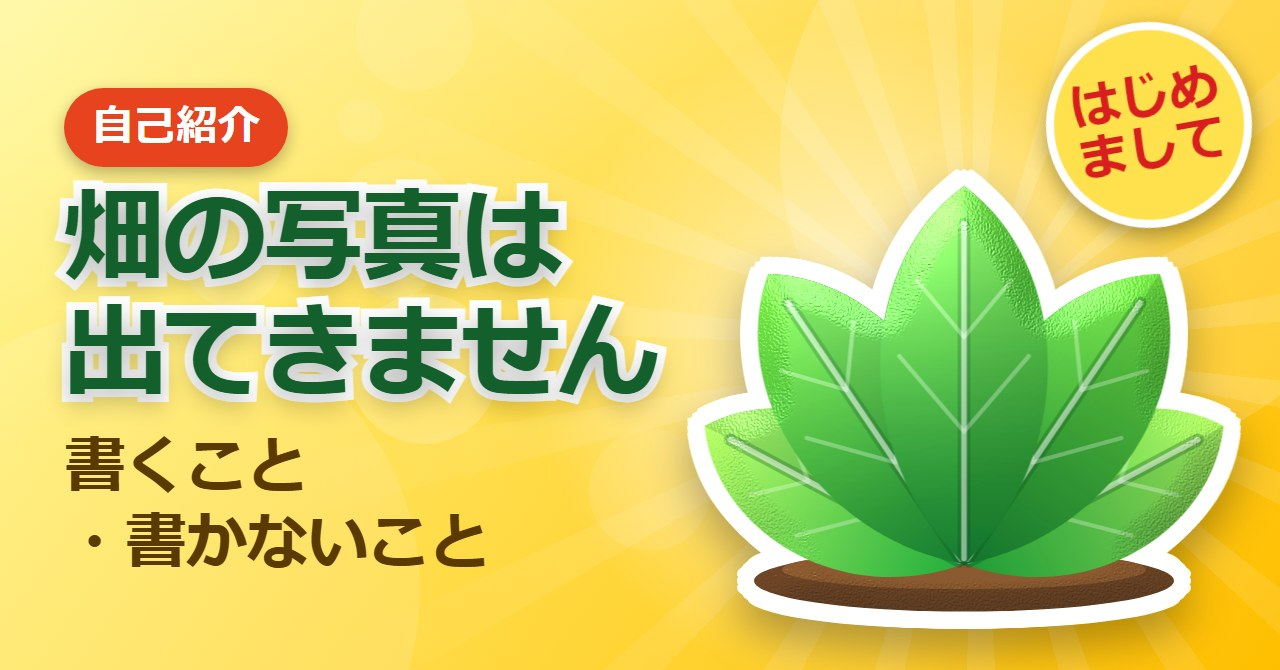
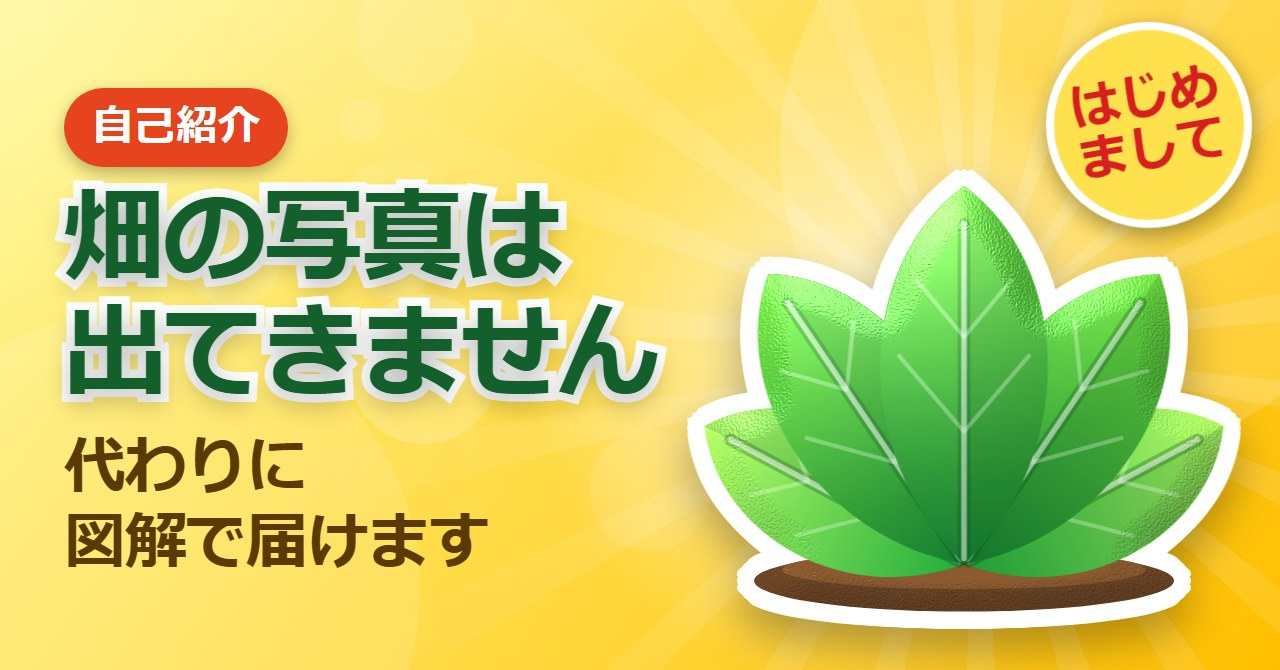
jiko update

Changed region(s): [[0.0312, 0.6567, 0.375, 0.8657]]

diff --git a/tmp/jikoshokai_body.html b/tmp/jikoshokai_body.html
@@ -1,0 +1,2 @@
+<p name="591f7d4b-550b-4913-a27d-a2ba98ba1954" id="591f7d4b-550b-4913-a27d-a2ba98ba1954">はじめまして。このnoteを書いている者です。</p><p name="a2697216-029c-4672-a8a2-d697718c517a" id="a2697216-029c-4672-a8a2-d697718c517a"><br></p><p name="49ea1618-78d9-42da-bb35-e3392d12440f" id="49ea1618-78d9-42da-bb35-e3392d12440f">野菜づくりのnoteですが、畑の写真は一枚も出てきません。育てている様子も、収穫した量も載せていません。写真の代わりに、図解で届けるためです。</p><p name="224d5c3e-0c33-4b2a-93bc-337789177dd0" id="224d5c3e-0c33-4b2a-93bc-337789177dd0"><br></p><p name="5cf37cb5-264f-4b7c-aff5-bc9db250c6a1" id="5cf37cb5-264f-4b7c-aff5-bc9db250c6a1">この記事で分かること</p><p name="1e3e19f5-6256-4de6-9e71-224ebff3104f" id="1e3e19f5-6256-4de6-9e71-224ebff3104f"><br></p><ul name="fe339b6e-17af-4ffc-9f3c-9c3d229d7094" id="fe339b6e-17af-4ffc-9f3c-9c3d229d7094"><li><p name="6284e1e9-643c-4c68-978f-b4d4ff546379" id="6284e1e9-643c-4c68-978f-b4d4ff546379">なぜ写真ではなく、図解なのか</p></li><li><p name="26a3865f-c1ff-47d9-907e-481a0a5f0268" id="26a3865f-c1ff-47d9-907e-481a0a5f0268">何を根拠に書いているのか</p></li><li><p name="ec7f8559-0ee2-4151-831f-8df1e4753296" id="ec7f8559-0ee2-4151-831f-8df1e4753296">このnoteが書くことと、書かないこと</p></li><li><p name="c23f1a12-c3f0-48bd-8068-f452031bce52" id="c23f1a12-c3f0-48bd-8068-f452031bce52">いちばん困っていることを教えてほしい、というお願い</p></li></ul><p name="6c39a5c6-df87-4b45-970b-615a19d97d08" id="6c39a5c6-df87-4b45-970b-615a19d97d08"><br></p><h2 name="b7e9bef2-0077-4ccd-8fe1-bf4c1d780777" id="b7e9bef2-0077-4ccd-8fe1-bf4c1d780777">写真ではなく、図解で届ける理由</h2><p name="f8965d4b-f64f-4862-94eb-d72e1bb9aa79" id="f8965d4b-f64f-4862-94eb-d72e1bb9aa79"><br></p><p name="05eb00c7-96fa-4775-aed1-cf8a3850e164" id="05eb00c7-96fa-4775-aed1-cf8a3850e164">家庭菜園はしています。実家は、果樹の専業農家です。それでも、畑の写真を載せるnoteにはしません。</p><p name="673f8630-bf1e-472a-96c1-761ab3465bd4" id="673f8630-bf1e-472a-96c1-761ab3465bd4"><br></p><p name="dbfa1095-ae41-4e61-9296-edd5ad8b8f6e" id="dbfa1095-ae41-4e61-9296-edd5ad8b8f6e">家庭菜園のnoteの多くは、育てた記録です。写真があって、季節が進んで、うまくいったりいかなかったりする。読んでいて楽しいですし、同じ時期に同じものを育てている人には、そのまま役に立ちます。</p><p name="54567ce8-fd78-4ea1-b43a-98f7315129f6" id="54567ce8-fd78-4ea1-b43a-98f7315129f6"><br></p><p name="f5bb6823-6fdc-4f35-b355-56c4626f60b4" id="f5bb6823-6fdc-4f35-b355-56c4626f60b4">このnoteは、そこには入りません。写真は、その畑、その年だけの記録です。同じ野菜でも、場所や土や天気が違えば、同じ結果にはなりません。だから私は、写真ではなく「なぜそうなるのか」を図にして届けることを、自分の強みにしています。</p><p name="805d831e-fb9e-46cc-b0b0-fb395bcad6d7" id="805d831e-fb9e-46cc-b0b0-fb395bcad6d7"><br></p><h2 name="7764a552-4b5a-4241-90d3-3ddc8cfdbbd8" id="7764a552-4b5a-4241-90d3-3ddc8cfdbbd8">では、何を根拠に書いているのか</h2><p name="390e4fb1-00f6-487c-9a7b-9da532320e8a" id="390e4fb1-00f6-487c-9a7b-9da532320e8a"><br></p><p name="4c885b5d-1027-459f-aa10-1768c9d9bbfe" id="4c885b5d-1027-459f-aa10-1768c9d9bbfe">農業の仕事に関わっていて、指導の資格があります。実家は果樹の専業農家で、家庭菜園もしています。</p><p name="2d690479-232a-4e6f-84f3-04996e116074" id="2d690479-232a-4e6f-84f3-04996e116074"><br></p><p name="50da7f27-12b0-4288-86ad-851ec4bf0506" id="50da7f27-12b0-4288-86ad-851ec4bf0506">ただ、それを理由に「だから正しい」と言うつもりはありません。資格は、間違えない保証にはならないからです。</p><p name="b69e2c7c-4268-478f-b24b-22cee9d22f08" id="b69e2c7c-4268-478f-b24b-22cee9d22f08"><br></p><p name="bf838702-7a63-423a-9d63-94218a6aa56e" id="bf838702-7a63-423a-9d63-94218a6aa56e">このnoteで根拠にしているのは、植物の性質のほうです。根は先端のどこで伸びるのか。水が足りないとき、何が先に止まるのか。肥料をやってから効くまでに、土の中で何が起きているのか。品種や地域が変わっても動きにくい部分だけを書いています。</p><p name="55b9ffbc-e04d-4b08-8844-4aa387ccfc3a" id="55b9ffbc-e04d-4b08-8844-4aa387ccfc3a"><br></p><p name="abd09ac9-5845-422d-96f7-21280df18e6f" id="abd09ac9-5845-422d-96f7-21280df18e6f">だから読んだあとに残ってほしいのは、手順ではなく理由です。理由が分かっていれば、目の前の株で何が起きているかを、自分で判断できるようになります。</p><p name="003f6c7e-8330-4e52-ba92-3b30cfddfa74" id="003f6c7e-8330-4e52-ba92-3b30cfddfa74"><br></p><h2 name="6209e7b9-c90c-49e1-8249-28f8d119c21b" id="6209e7b9-c90c-49e1-8249-28f8d119c21b">書くこと</h2><p name="6684b2ac-22d5-47e2-9c05-c71d294dd694" id="6684b2ac-22d5-47e2-9c05-c71d294dd694"><br></p><h3 name="25b18f27-9f31-4c6c-830c-464abe10a1a1" id="25b18f27-9f31-4c6c-830c-464abe10a1a1">症状から入る</h3><p name="1767aaac-51af-42c1-adfc-904f5e1b6118" id="1767aaac-51af-42c1-adfc-904f5e1b6118"><br></p><p name="c28c86d5-9a7d-457e-be6a-0ef3dc23c056" id="c28c86d5-9a7d-457e-be6a-0ef3dc23c056">「葉に穴が空いた」「実がつかない」「苗が伸びない」。病名ではなく、目で見えている状態から書きはじめます。困っているとき、先に頭に浮かぶのは見た目のほうだからです。</p><p name="2872362f-f0d9-458f-ab79-4a2ba0fb3ac2" id="2872362f-f0d9-458f-ab79-4a2ba0fb3ac2"><br></p><h3 name="917e28a7-dec3-4bc6-b6bc-06c135896319" id="917e28a7-dec3-4bc6-b6bc-06c135896319">しないとどうなるかを書く</h3><p name="d5430054-ebd9-4dcb-b2b2-079ee22ca858" id="d5430054-ebd9-4dcb-b2b2-079ee22ca858"><br></p><p name="9e147c3c-d9a1-4baa-a462-1ccabfc861fa" id="9e147c3c-d9a1-4baa-a462-1ccabfc861fa">「やったほうがいい」だけでは、後回しになります。やらなかったときに何が起きるのかまで書いてはじめて、やるかやらないかを決められます。</p><p name="13e332b6-db2e-4187-8e05-94851a98c33d" id="13e332b6-db2e-4187-8e05-94851a98c33d"><br></p><h2 name="b63d645c-826a-46a8-95e7-c7c6d97f4952" id="b63d645c-826a-46a8-95e7-c7c6d97f4952">書かないこと</h2><p name="13e52bd3-aebe-4e66-8bb8-7ebffde5ab2e" id="13e52bd3-aebe-4e66-8bb8-7ebffde5ab2e"><br></p><h3 name="130a49b1-75b7-4cda-9c1a-92919f2bdf38" id="130a49b1-75b7-4cda-9c1a-92919f2bdf38">自分の栽培体験</h3><p name="9aed1c7c-d789-4346-8f10-3f527b034371" id="9aed1c7c-d789-4346-8f10-3f527b034371"><br></p><p name="52b48113-05cf-41f8-be43-deac1e79893e" id="52b48113-05cf-41f8-be43-deac1e79893e">上に書いたとおりです。家庭菜園はしていますが、栽培記録は書きません。場所や品種や年で結果が変わる話は、読んだ人の畑にそのまま当てはまらないからです。</p><p name="39105a1a-ee4b-46c7-ad03-897b4309e496" id="39105a1a-ee4b-46c7-ad03-897b4309e496"><br></p><h3 name="b577ee9d-bcc5-408e-8e1e-fc61e666a650" id="b577ee9d-bcc5-408e-8e1e-fc61e666a650">言い切れないこと</h3><p name="00677330-243d-44eb-adbc-83360f1a8a07" id="00677330-243d-44eb-adbc-83360f1a8a07"><br></p><p name="8dc11850-13c0-4db0-871e-0afa1a0c9582" id="8dc11850-13c0-4db0-871e-0afa1a0c9582">はっきりしないことは「〜のことが多いです」で止めます。断定したほうが読みやすいのは分かっていますが、読んだ人は実際に畑やプランターで手を動かします。外したときの損は、こちらではなく読んだ側に出ます。歯切れの悪い文が混ざっていたら、そこは確信が持てていない部分だと思ってください。</p><p name="f50ffc09-31bd-4388-93fa-97399c84a18e" id="f50ffc09-31bd-4388-93fa-97399c84a18e"><br></p><h3 name="11e7c76b-0885-4a4c-968a-a044cfd0b5d9" id="11e7c76b-0885-4a4c-968a-a044cfd0b5d9">効果の保証</h3><p name="747ddeb0-4673-4b59-bf91-f70007bc86db" id="747ddeb0-4673-4b59-bf91-f70007bc86db"><br></p><p name="cfa5574a-7989-46d7-abf0-2b7170f173a1" id="cfa5574a-7989-46d7-abf0-2b7170f173a1">「必ず甘くなる」「絶対に失敗しない」は書きません。野菜は同じ手をかけても、年によって違う結果になります。</p><p name="bfdbd766-d3fa-48a8-b690-fa82e6e8a082" id="bfdbd766-d3fa-48a8-b690-fa82e6e8a082"><br></p><figure name="0908fdbc-d6eb-465b-8e57-820a43e4731d" id="0908fdbc-d6eb-465b-8e57-820a43e4731d"><blockquote><p name="c46fac2b-0b0e-4585-b60a-44eba0092036" id="c46fac2b-0b0e-4585-b60a-44eba0092036">⚠ 一方で、はっきりしていることは、はっきり書きます。全部をぼかすのは、それはそれで不誠実だと考えています。</p></blockquote><figcaption></figcaption></figure><p name="de84138d-38b6-4860-9d5e-d32eb1cc798a" id="de84138d-38b6-4860-9d5e-d32eb1cc798a"><br></p><h2 name="3ba79038-3633-43cc-973f-13b22f005a2a" id="3ba79038-3633-43cc-973f-13b22f005a2a">向いていない人</h2><p name="ee108877-63b0-407c-803d-ea7e8d506d52" id="ee108877-63b0-407c-803d-ea7e8d506d52"><br></p><p name="9c600dec-6fa3-4866-8776-c72b83d596d2" id="9c600dec-6fa3-4866-8776-c72b83d596d2">・写真で季節を感じたい人 … 図解はありますが、畑の写真はありません</p><p name="9d64520a-3334-4729-b96e-8c2c78932225" id="9d64520a-3334-4729-b96e-8c2c78932225">・すぐ使える手順だけを知りたい人 … 理由の説明が長いので、遠回りに感じると思います</p><p name="ddeb4e1f-2c3a-4db5-85e7-e0292c2d5ebb" id="ddeb4e1f-2c3a-4db5-85e7-e0292c2d5ebb"><br></p><h2 name="4a23d62a-a592-49a6-b503-e58313ba100a" id="4a23d62a-a592-49a6-b503-e58313ba100a">いま、いちばん困っていることを教えてください</h2><p name="2f0ecbdc-e055-4e18-8cca-5e3a061c81cc" id="2f0ecbdc-e055-4e18-8cca-5e3a061c81cc"><br></p><p name="1e0bf377-913f-4583-aadc-0664fba9792f" id="1e0bf377-913f-4583-aadc-0664fba9792f">このnoteは、読んだ人が困っていることから書きたいと思っています。</p><p name="ba5496d9-09b2-4206-8f61-70dcaf6b7e5c" id="ba5496d9-09b2-4206-8f61-70dcaf6b7e5c"><br></p><p name="f055fdc9-5d7c-408a-bf03-450540bf3095" id="f055fdc9-5d7c-408a-bf03-450540bf3095">あなたがいま、いちばん手を止めているのはどれでしょう。</p><p name="6ecfe732-ab67-4238-81a6-bf392e3cb342" id="6ecfe732-ab67-4238-81a6-bf392e3cb342"><br></p><p name="65acea6a-48e8-4e45-bfa1-c53c81c7bab4" id="65acea6a-48e8-4e45-bfa1-c53c81c7bab4">・1 虫や病気</p><p name="3896c5fb-c859-423d-98cb-1bd446614ed0" id="3896c5fb-c859-423d-98cb-1bd446614ed0">・2 実がつかない、太らない</p><p name="67937f5d-245d-4d4b-96c3-67f70248f4d0" id="67937f5d-245d-4d4b-96c3-67f70248f4d0">・3 土づくりと肥料</p><p name="80b0895d-0350-4ccd-99af-6b79261cabab" id="80b0895d-0350-4ccd-99af-6b79261cabab">・4 水やり</p><p name="0213e127-efc3-4d03-9529-f5f12d74113e" id="0213e127-efc3-4d03-9529-f5f12d74113e">・5 種まきと苗の植え付け</p><p name="78ca7d3d-ce10-480c-b343-73c22ad1936c" id="78ca7d3d-ce10-480c-b343-73c22ad1936c"><br></p><p name="a058d5fa-a53a-404a-b3a1-910877f49a8c" id="a058d5fa-a53a-404a-b3a1-910877f49a8c">番号だけでもかまいません。コメントで教えてもらえると助かります。</p><p name="3b06e1a8-4142-4737-a5e4-9a2ad2906d6c" id="3b06e1a8-4142-4737-a5e4-9a2ad2906d6c"><br></p><p name="4d2f8389-e048-4107-bc01-32b6459c9cc7" id="4d2f8389-e048-4107-bc01-32b6459c9cc7">いただいた番号の多いものから順に書いていきます。</p><p name="bd329a14-aca8-4b44-9aeb-224235c2eeeb" id="bd329a14-aca8-4b44-9aeb-224235c2eeeb"><br></p><p name="fbc47bb0-0488-470c-8174-f3d5f2335808" id="fbc47bb0-0488-470c-8174-f3d5f2335808">いまのところ、いちばん読まれているのはこの記事です。</p><p name="802ab689-4531-47ce-8e2e-2ce4544710f2" id="802ab689-4531-47ce-8e2e-2ce4544710f2"><br></p><figure name="ceacc783-6225-4d97-8655-b03171e60758" id="ceacc783-6225-4d97-8655-b03171e60758" data-src="https://note.com/agri_ai/n/n5739e530a6a5" data-identifier="n5739e530a6a5" embedded-service="note" embedded-content-key="emb0a7ed22cfc26">
+</figure>
